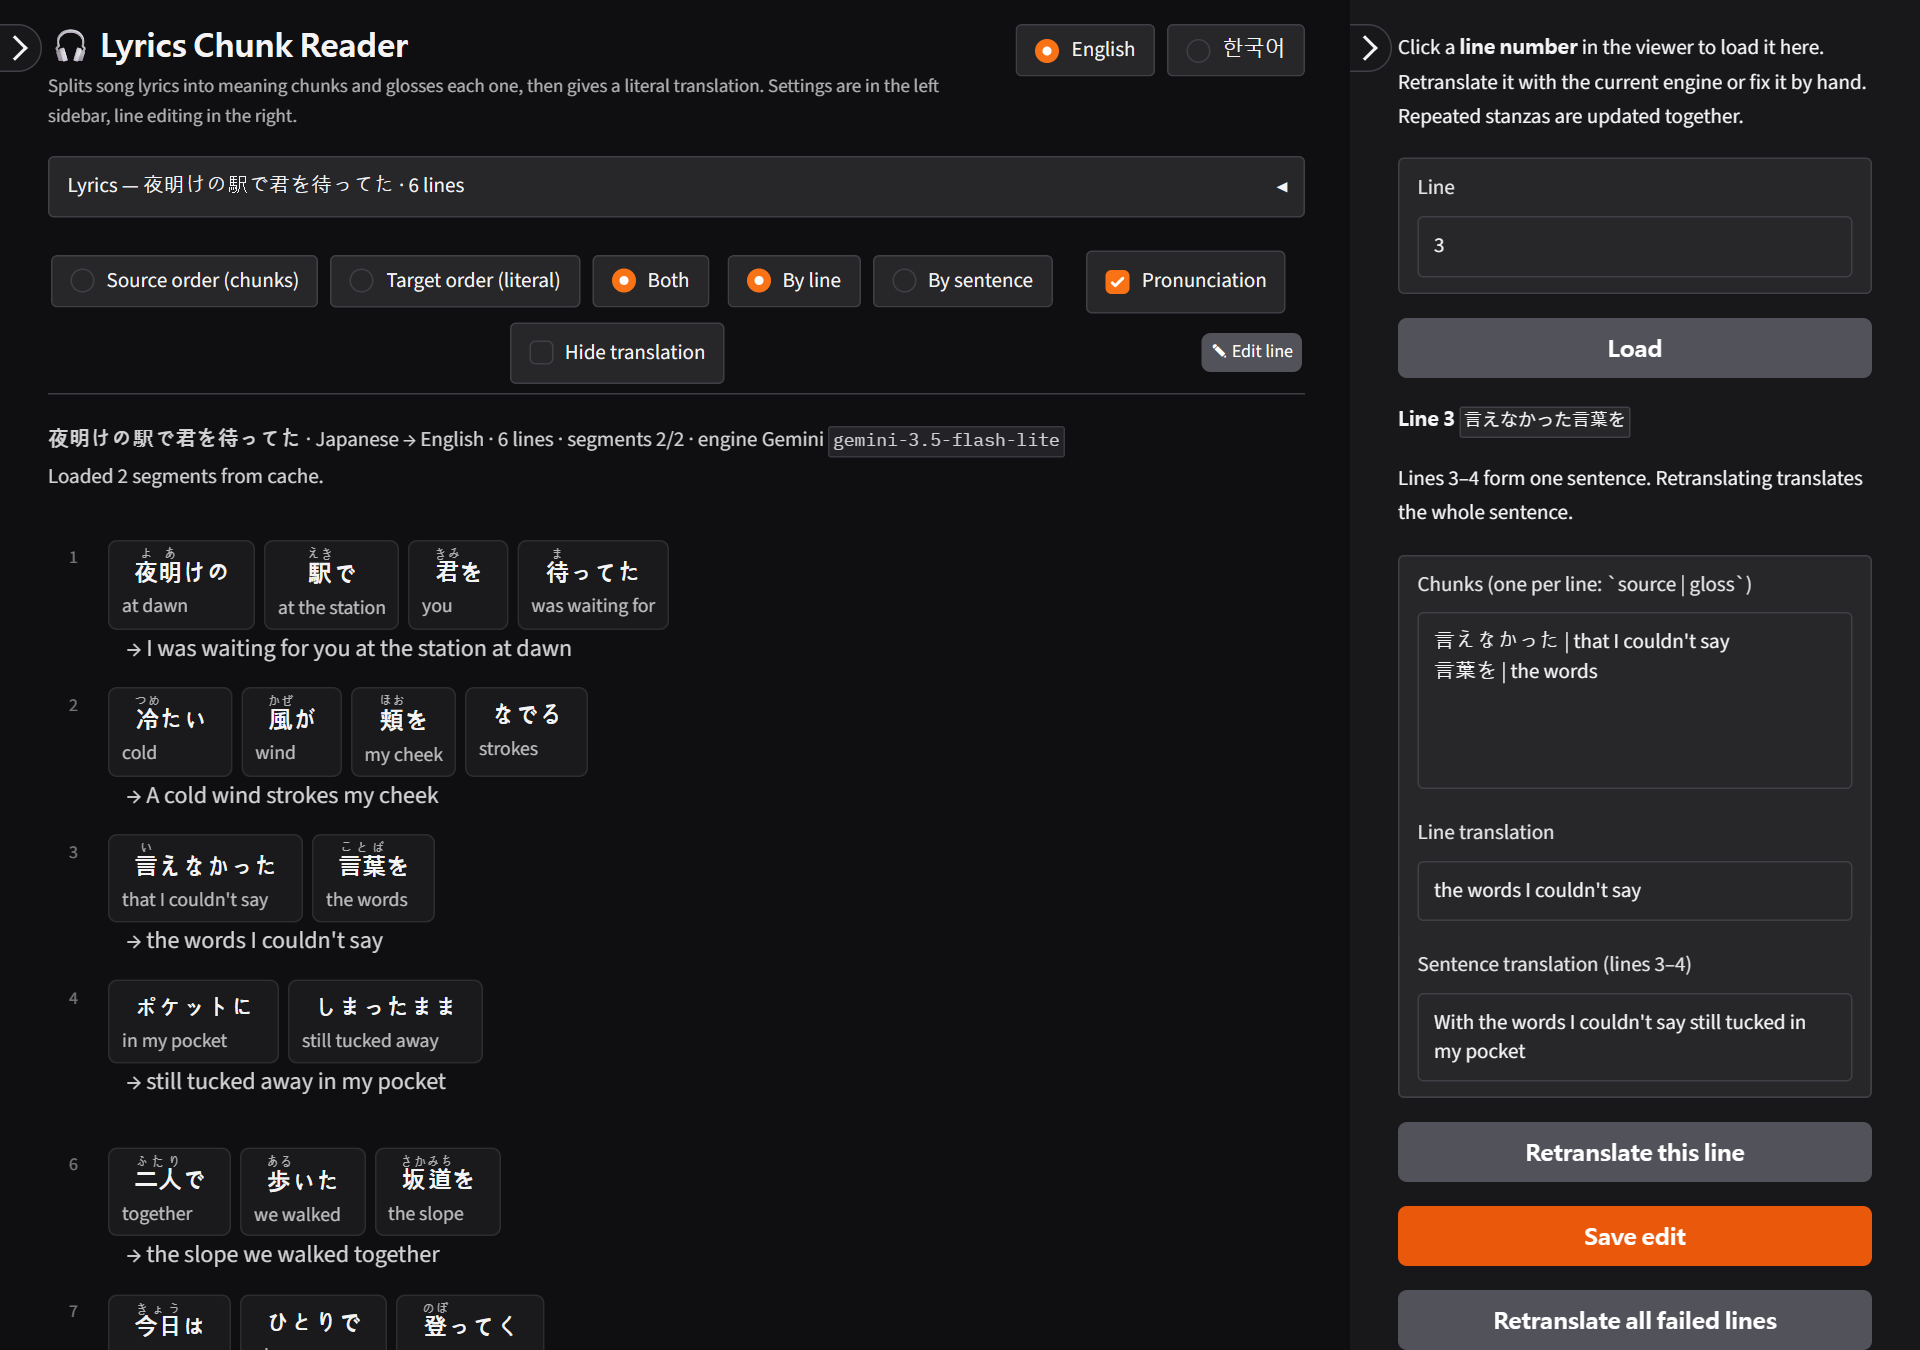
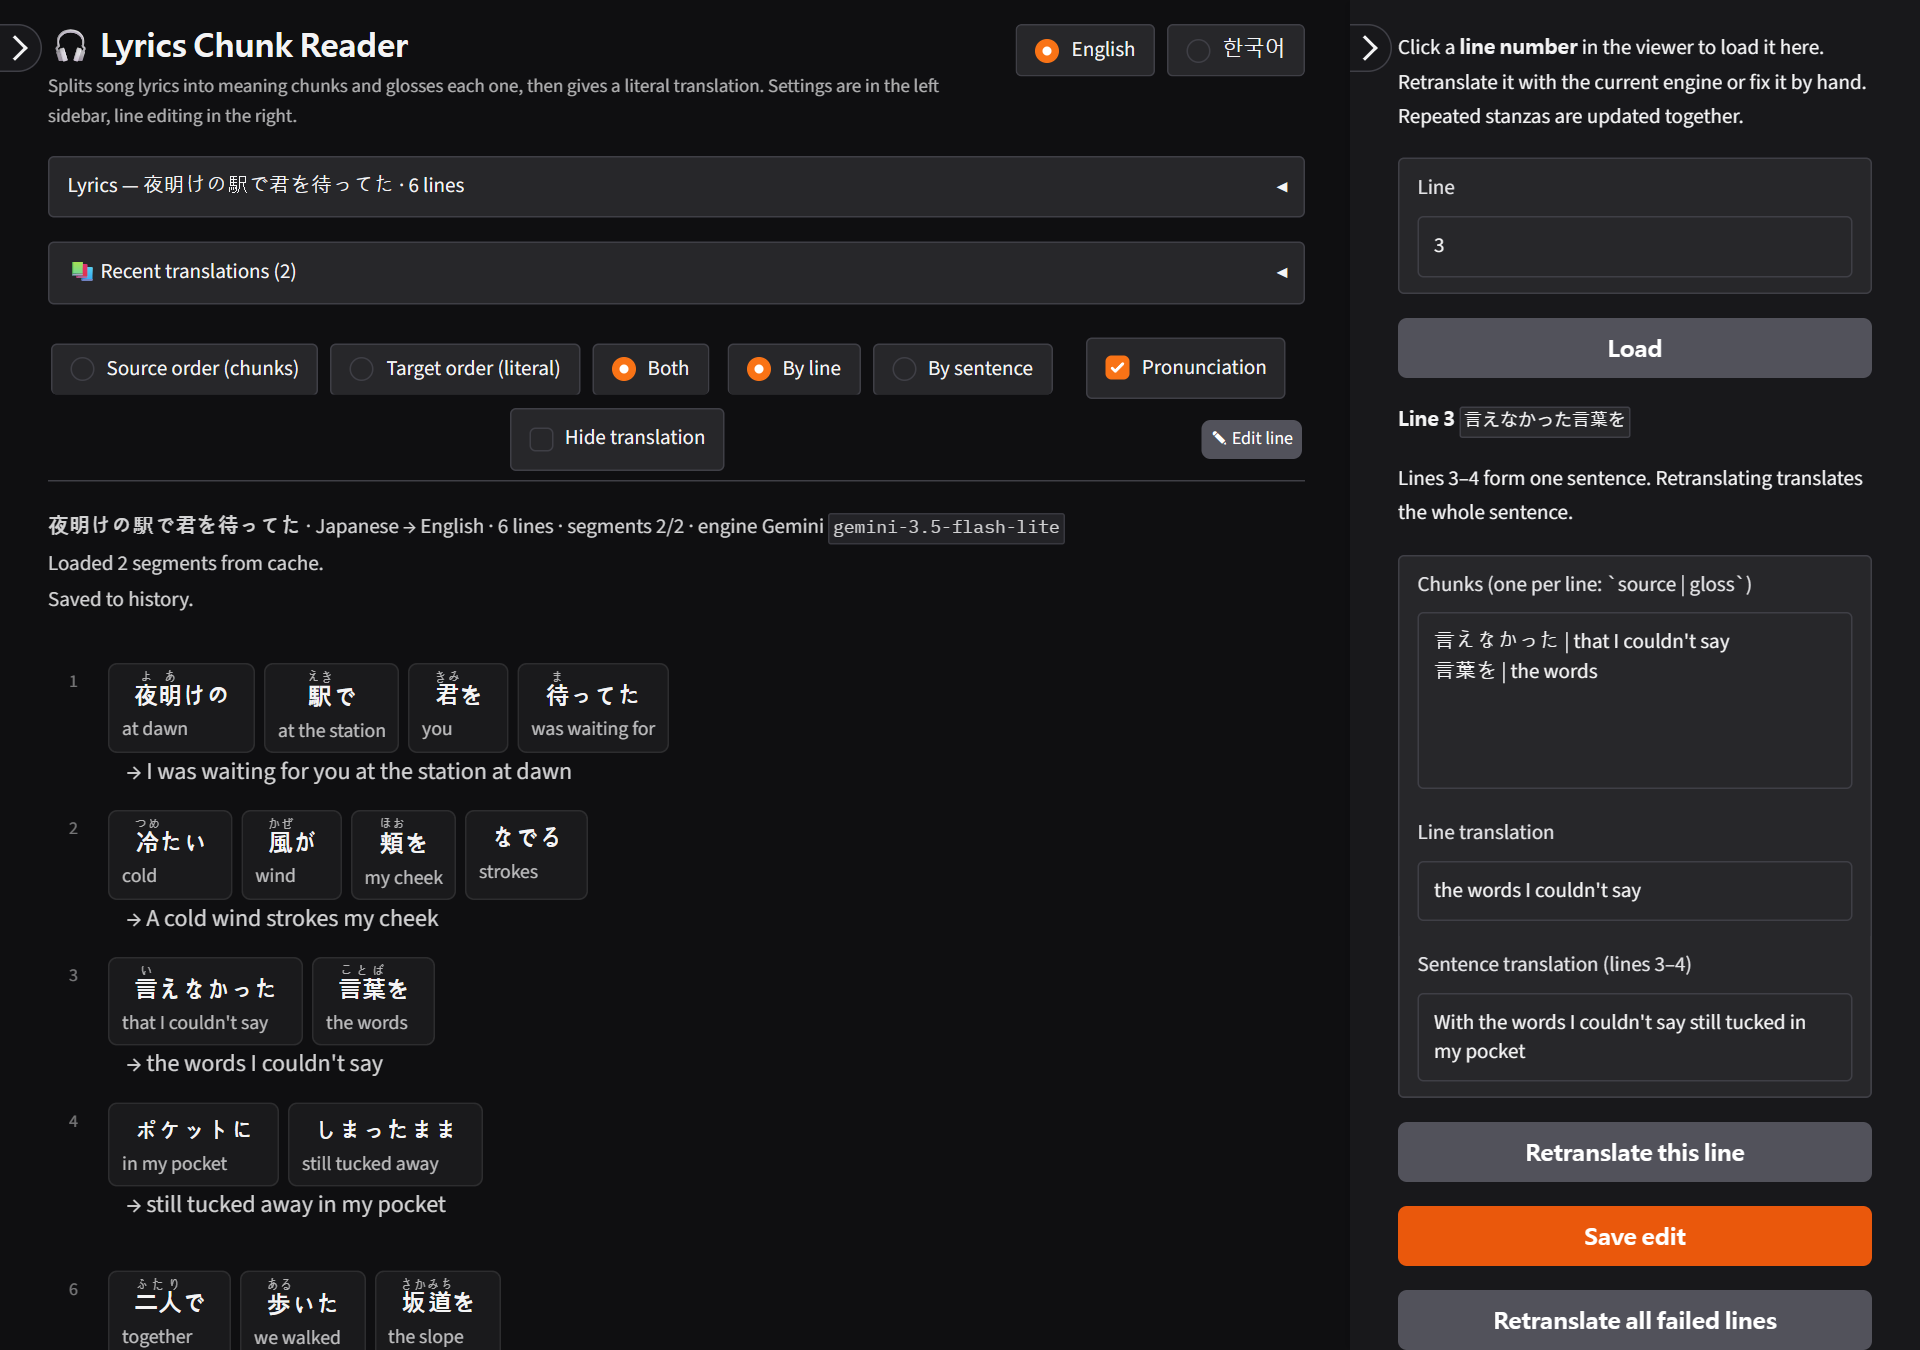
docs: 히스토리 설명과 목록 화면 추가, 실행 화면 다시 찍기

Changed region(s): [[0.0, 0.1556, 0.6875, 0.9956]]

diff --git a/README.md b/README.md
@@ -17,7 +17,7 @@ It runs on a local LLM (Ollama) or a free API (Gemini, Groq, …), and the inter
 - **Dictionary links**: click a chunk to open Naver Dictionary or Jisho · MDBG · Wiktionary.
 - **Lyrics clean-up**: strips `[Chorus]` labels, LRC timestamps, credits and lyrics-site leftovers; opens .txt/.lrc files with encoding detection.
 - **Line editing**: click a line number to retranslate just that line or fix it by hand. Repeated choruses update together.
-- **Cache & history**: a song you have translated opens instantly next time.
+- **History**: every fully translated song is kept in a list on the main screen — click it to reopen instantly, without translating again.
 - **Export**: Markdown (for review), printable HTML (save as PDF), JSON.
 - **Works on your phone** over the same Wi-Fi.
 
@@ -76,7 +76,7 @@ For API keys or a default engine, copy `.env.example` to `.env` and fill in what
 
    ![Edit line panel](docs/images/edit-en.png)
 
-4. Download results as Markdown, printable HTML or JSON under **Settings → Export**. Reopen past songs from **Settings → Recent**.
+4. Download results as Markdown, printable HTML or JSON under **Settings → Export**. Reopen past songs from **📚 Recent translations** below the lyrics box (see [History](#history)).
 
 Switch the interface language (English / 한국어) with the buttons at the top right. It starts in your browser's language. Engine, model and view settings are remembered in the browser (API keys are never saved, so put them in `.env`).
 
@@ -93,9 +93,19 @@ Run `HOST=0.0.0.0 python app.py` on your PC (PowerShell: `$env:HOST = "0.0.0.0"`
 
 <img src="docs/images/mobile-en.png" alt="Phone view" width="300">
 
+## History
+
+- The **📚 Recent translations** list under the lyrics box loads by itself when the page opens and refreshes after each translation.
+- Click a row to open that song **as saved** — no engine is called and nothing is translated again. Press **Translate** if you do want a fresh translation.
+- Only songs with **every line translated** are saved. Stopped translations or songs with failed lines are not; once you fix the failed lines (Edit line), the song is saved.
+- Storage: one JSON file per song in the `history/` folder of the project (override with `LYRICS_HISTORY_DIR`). The same lyrics in the same target language overwrite the earlier file. You can open, back up or delete the files directly; **🗑 Delete the open song from history** removes the open one.
+![Recent translations list](docs/images/history-en.png)
+
+- History from earlier versions (kept in the cache DB) is moved into `history/` on first start, but only for songs whose results are complete.
+
 ## Cache
 
-- Location: `~/.lyrics-jikdok/cache.db` (override with `LYRICS_CACHE`).
+- Location: `~/.lyrics-jikdok/cache.db` (override with `LYRICS_CACHE`). It stores translated stanzas so repeated stanzas and retries don't call the engine again; your song list lives in `history/` (above).
 - Key: engine, model, source language, target language and stanza text. Change any of them and it translates again.
 - Repeated stanzas (choruses) are translated once, and edits apply to every repeat. Stanzas with failed lines aren't cached, so they are retried next time.
 - Use **Ignore cache** to translate fresh, or **Settings → Engine → Clear cache** to wipe it.
@@ -117,7 +127,8 @@ lyrics_tool/
   core.py               stanza segments, prompt, split-and-retry, sentence groups, retranslate/edit
   langs.py              supported languages, source-language detection
   i18n.py               UI and message strings (English, Korean)
-  cache.py              SQLite translation cache + recent list
+  cache.py              SQLite translation cache (per stanza)
+  history.py            translation history, one JSON file per song in history/
   cleanup.py            lyrics clean-up, TXT/LRC reading with encoding detection
   reading.py            pronunciation (furigana, pinyin), dictionary links
   render.py             HTML/Markdown rendering per view mode and unit
